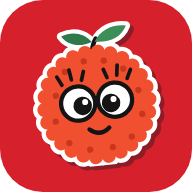
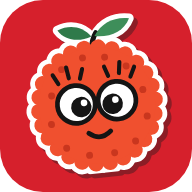
Icono: May más grande (zona útil del icono)
Claude-Session: https://claude.ai/code/session_01DbYLVAtUStymnsMTHnXpRn

Changed region(s): [[0.125, 0.0625, 0.9062, 0.9375]]

diff --git a/tools/render_icons.js b/tools/render_icons.js
@@ -1,7 +1,7 @@
 // Rasteriza icons/*.svg a los PNG que usa la PWA.
 const { chromium } = require('playwright');
 const fs = require('fs');
-const out = [['icon.svg', 'icon-192.png', 192], ['icon.svg', 'icon-512.png', 512], ['icon-full.svg', 'icon-maskable-512.png', 512], ['icon-full.svg', 'apple-touch-icon.png', 180], ['icon.svg', 'favicon-32.png', 32]];
+const out = [['icon.svg', 'icon-192.png', 192], ['icon.svg', 'icon-512.png', 512], ['icon-full.svg', 'icon-maskable-512.png', 512], ['icon-apple.svg', 'apple-touch-icon.png', 180], ['icon.svg', 'favicon-32.png', 32]];
 (async () => {
   const b = await chromium.launch();
   for (const [src, dst, size] of out) {

diff --git a/sw.js b/sw.js
@@ -1,7 +1,7 @@
 // Service worker: app instalable y uso sin conexión.
 // - App (HTML/CSS/JS/datos): red primero, caché como respaldo → las actualizaciones llegan al momento.
 // - Mapa (tiles OpenFreeMap) e imágenes (Wikimedia): caché primero y se refresca en segundo plano.
-const VERSION = 'mp-v75';
+const VERSION = 'mp-v76';
 const SHELL = [
   './', 'index.html', 'privacy.html', 'manifest.webmanifest', 'css/styles.css',
   'js/city.js', 'js/config.js', 'js/auth.js', 'vendor/supabase/supabase.js', 'js/data.js', 'js/icons.js', 'js/badges.js', 'js/share.js',

diff --git a/tools/make_icons.py b/tools/make_icons.py
@@ -20,6 +20,7 @@ def art(w):  # w: tamaño de May en el lienzo de 1024
             f'<svg x="{x+w*.024:.0f}" y="{y+w*.029:.0f}" width="{w}" height="{w}" viewBox="0 0 100 100">{sil("#8C1D26", 6)}</svg>'
             f'<svg x="{x:.0f}" y="{y:.0f}" width="{w}" height="{w}" viewBox="0 0 100 100">{sil("#fff", 6)}{MAY}</svg></g>')
 head = '<svg xmlns="http://www.w3.org/2000/svg" viewBox="0 0 1024 1024" width="1024" height="1024">'
-open('icons/icon-full.svg', 'w').write(f'{head}{art(600)}</svg>')  # maskable: May dentro de la zona segura
-open('icons/icon.svg', 'w').write(f'{head}<defs><clipPath id="m"><rect width="1024" height="1024" rx="229"/></clipPath></defs><g clip-path="url(#m)">{art(760)}</g></svg>')
+open('icons/icon-full.svg', 'w').write(f'{head}{art(660)}</svg>')  # maskable: May dentro de la zona segura
+open('icons/icon-apple.svg', 'w').write(f'{head}{art(840)}</svg>')  # iOS recorta las esquinas él mismo
+open('icons/icon.svg', 'w').write(f'{head}<defs><clipPath id="m"><rect width="1024" height="1024" rx="229"/></clipPath></defs><g clip-path="url(#m)">{art(840)}</g></svg>')
 print('svg ok')
